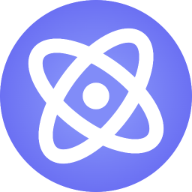
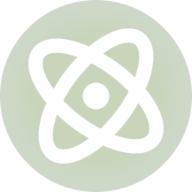
Change colors

diff --git a/src/components/Personalizer.js b/src/components/Personalizer.js
@@ -6,10 +6,17 @@ import TextareaAutosize from 'react-textarea-autosize'
 
 export default function Personalizer({ setResponse, setIsLoading, isLoading }) {
    const [input, setInput] = useState('')
+   const [error, setError] = useState('')
 
    const handleSubmit = async e => {
       e.preventDefault()
+      if (input.trim() == '') {
+         setError('Please enter your data')
+         return
+      }
+
       setIsLoading(true)
+      setError('')
       setResponse('')
 
       const generateText = async () => {
@@ -39,9 +46,9 @@ export default function Personalizer({ setResponse, setIsLoading, isLoading }) {
    }
 
    return (
-      <div id='personalizer' className='pt-24 md:pt-0'>
+      <div id='personalizer' className='pt-24 md:pt-0 relative z-20'>
          <div className='relative py-8'>
-            <div className='bg-base-200/55 absolute top-0 -left-5 w-screen md:w-[114%] h-full -z-20 rounded-2xl'></div>
+            <div className='bg-base-200/20 absolute top-0 -left-5 w-screen md:w-[114%] h-full -z-20 rounded-2xl'></div>
             <h1 className='font-aspekta font-semibold md:text-3xl mt-0 mb-3'>
                Realize your potential with <span className='text-primary'>AI</span>
             </h1>
@@ -54,20 +61,25 @@ export default function Personalizer({ setResponse, setIsLoading, isLoading }) {
             </p>
             <form
                onSubmit={handleSubmit}
-               className='relative bg-transparent flex items-start border-b-2 border-base-300 pb-2 mt-12 sm:mt-8 md:mt-12 xl:mt-8'
+               className='relative bg-transparent flex items-start border-b-2 border-primary/50 pb-2 mt-12 sm:mt-8 md:mt-12 xl:mt-8'
             >
                <TextareaAutosize
                   minRows={2}
                   maxRows={6}
                   maxLength={255}
-                  onChange={e => setInput(e.target.value)}
+                  onChange={e => {
+                     setError('')
+                     setInput(e.target.value)
+                  }}
                   value={input}
-                  className='w-full bg-transparent text-neutral text-lg font-aspekta leading-normal resize-none outline-none'
-                  placeholder='INTJ, Professor, reading, traveling, English and Japanese, 30 y.o.'
+                  className={`w-full bg-transparent ${
+                     error ? 'placeholder:text-error' : 'text-neutral'
+                  } text-lg font-aspekta leading-normal resize-none outline-none`}
+                  placeholder={error ? error : `INTJ, Professor, reading, traveling, English and Japanese, 30 y.o.`}
                />
-               <button className='btn btn-primary rounded-full w-12 relative top-2 group' disabled={isLoading}>
+               <button className='btn btn-accent rounded-full w-12 relative top-2' disabled={isLoading}>
                   <svg
-                     className='scale-[200%] group-active:translate-x-0.5 transition-transform'
+                     className='scale-[200%] transition-transform'
                      width='24'
                      height='24'
                      viewBox='0 0 24 24'

diff --git a/src/components/Navbar.js b/src/components/Navbar.js
@@ -5,13 +5,10 @@ export default function Navbar() {
    return (
       <nav className='navbar fixed top-0 left-0 z-50 py-0'>
          <div className='flex-1 container mx-auto md:px-12 lg:px-16'>
-            <a
-               href='/'
-               className='btn btn-ghost font-aspekta font-medium text-lg flex items-center gap-1 bg-gray-200/30 border-b border-base-200 backdrop-blur-md px-3'
-            >
-               <Image src='/logo.png' width={40} height={40} />
+            <a href='/' className='btn btn-ghost font-aspekta font-medium text-lg flex items-center gap-1 bg-gray-200/30 backdrop-blur-md px-3'>
+               <Image src='/logo.png' width={36} height={36} />
                <p>
-                  <span className='text-primary'>Fancy</span> MBTI
+                  <span className='text-accent'>Fancy</span> MBTI
                </p>
             </a>
          </div>

diff --git a/src/app/page.js b/src/app/page.js
@@ -8,10 +8,12 @@ export default function Home() {
    const [isLoading, setIsLoading] = useState(false)
    const [response, setResponse] = useState('')
    return (
-      <div>
+      <div className='relative'>
          <div className='md:flex gap-10 lg:gap-14 xl:gap-16 items-center justify-center'>
             <Hero />
+            <div className='absolute bg-primary/90 w-[200px] md:w-[240px] h-[200px] md:h-[240px] rounded-full blur-[130px] top-[30px] md:top-0 -left-[25px]'></div>
             <Personalizer setResponse={setResponse} setIsLoading={setIsLoading} isLoading={isLoading} />
+            <div className='absolute bg-primary/90 w-[200px] h-[200px] rounded-full blur-[120px] top-[1200px] md:top-[600px] -right-[40px] md:-right-[170px] -z-20'></div>
          </div>
          <Response response={response} isLoading={isLoading} />
       </div>

diff --git a/src/components/Hero.js b/src/components/Hero.js
@@ -14,7 +14,7 @@ export default function Hero() {
                   Take a journey of self-discovery with MBTI. Platform will guide you in understanding your personality and using your potential!
                </p>
                <div className='md:hidden'>
-                  <a href='#personalizer' className='no-underline btn btn-primary text-base-100 btn-md font-aspekta'>
+                  <a href='#personalizer' className='no-underline btn btn-accent text-base-100 btn-md font-aspekta'>
                      Realize my potential
                   </a>
                   <svg

diff --git a/src/app/layout.js b/src/app/layout.js
@@ -15,7 +15,7 @@ export default function RootLayout({ children }) {
             <link rel='icon' type='image/png' sizes='32x32' href='/favicon-32x32.png' />
             <link rel='icon' type='image/png' sizes='16x16' href='/favicon-16x16.png' />
             <link rel='manifest' href='/site.webmanifest' />
-            <meta name='theme-color' content='#818cf8' />
+            <meta name='theme-color' content='#c8d5bb' />
          </head>
          <body className='overflow-x-hidden'>
             <div className='flex flex-col min-h-screen overflow-hidden relative'>

diff --git a/tailwind.config.js b/tailwind.config.js
@@ -15,11 +15,13 @@ module.exports = {
          {
             winter: {
                ...require('daisyui/src/theming/themes')['winter'],
-               primary: '#818cf8',
+               // primary: '#818cf8',
+               primary: '#c8d5bb',
                secondary: '#60a5fa',
-               accent: '#34d399',
+               accent: '#80989b',
                neutral: '#394e6a',
-               'base-200': '#eef2ff',
+               // 'base-200': '#eef2ff',
+               'base-200': '#d4dcda',
             },
          },
       ],
